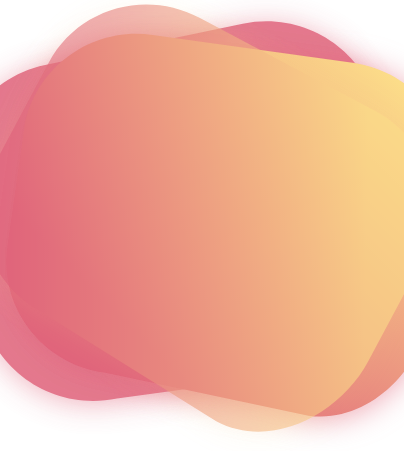
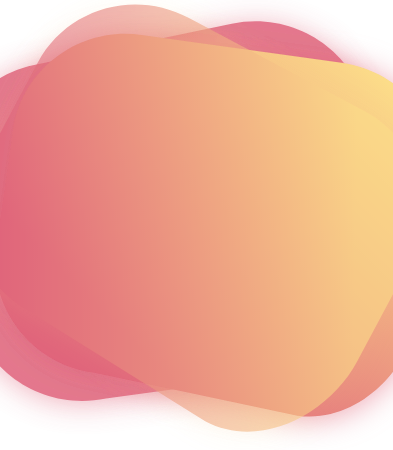
initiation

diff --git a/Peach/public_html/css/screen.css b/Peach/public_html/css/screen.css
@@ -50,8 +50,11 @@ body.sign-in:before {
     top: 0;
     background: url(../images/background.png) no-repeat center top;
     background-size: 100% 30rem;
-    transform: translateY(-20.5rem);
+    transform: translateY(-7.5rem);
     z-index: -1;
+}
+header.sign-in {
+    margin-top: 7rem;
 }
 header.sign-in h1 {
     color: #FFFFFF;  
@@ -63,7 +66,9 @@ header.sign-in .slogan{
     color: #FFFFFF; 
     text-align: center;
 }
-
+main.sign-in {
+    margin-top: 11rem;
+}
 main.sign-in legend {
     color: #343434;
     padding: 3px 6px;
